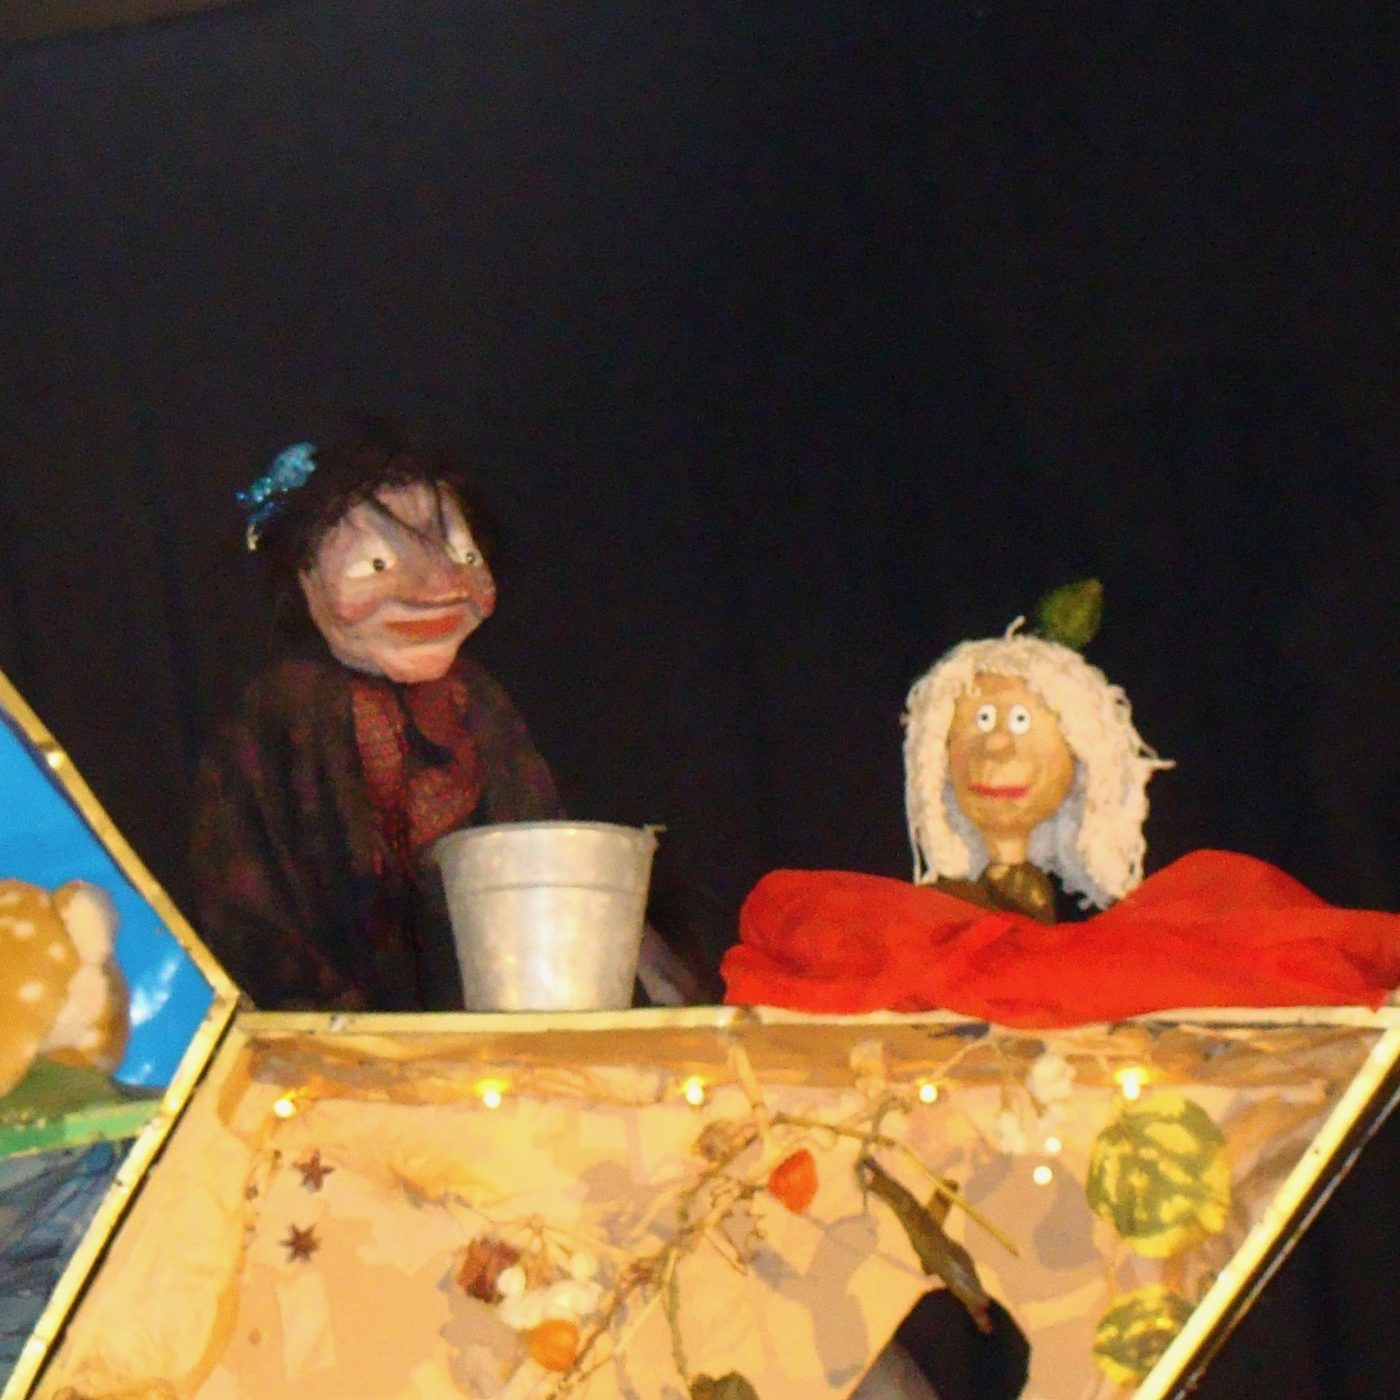
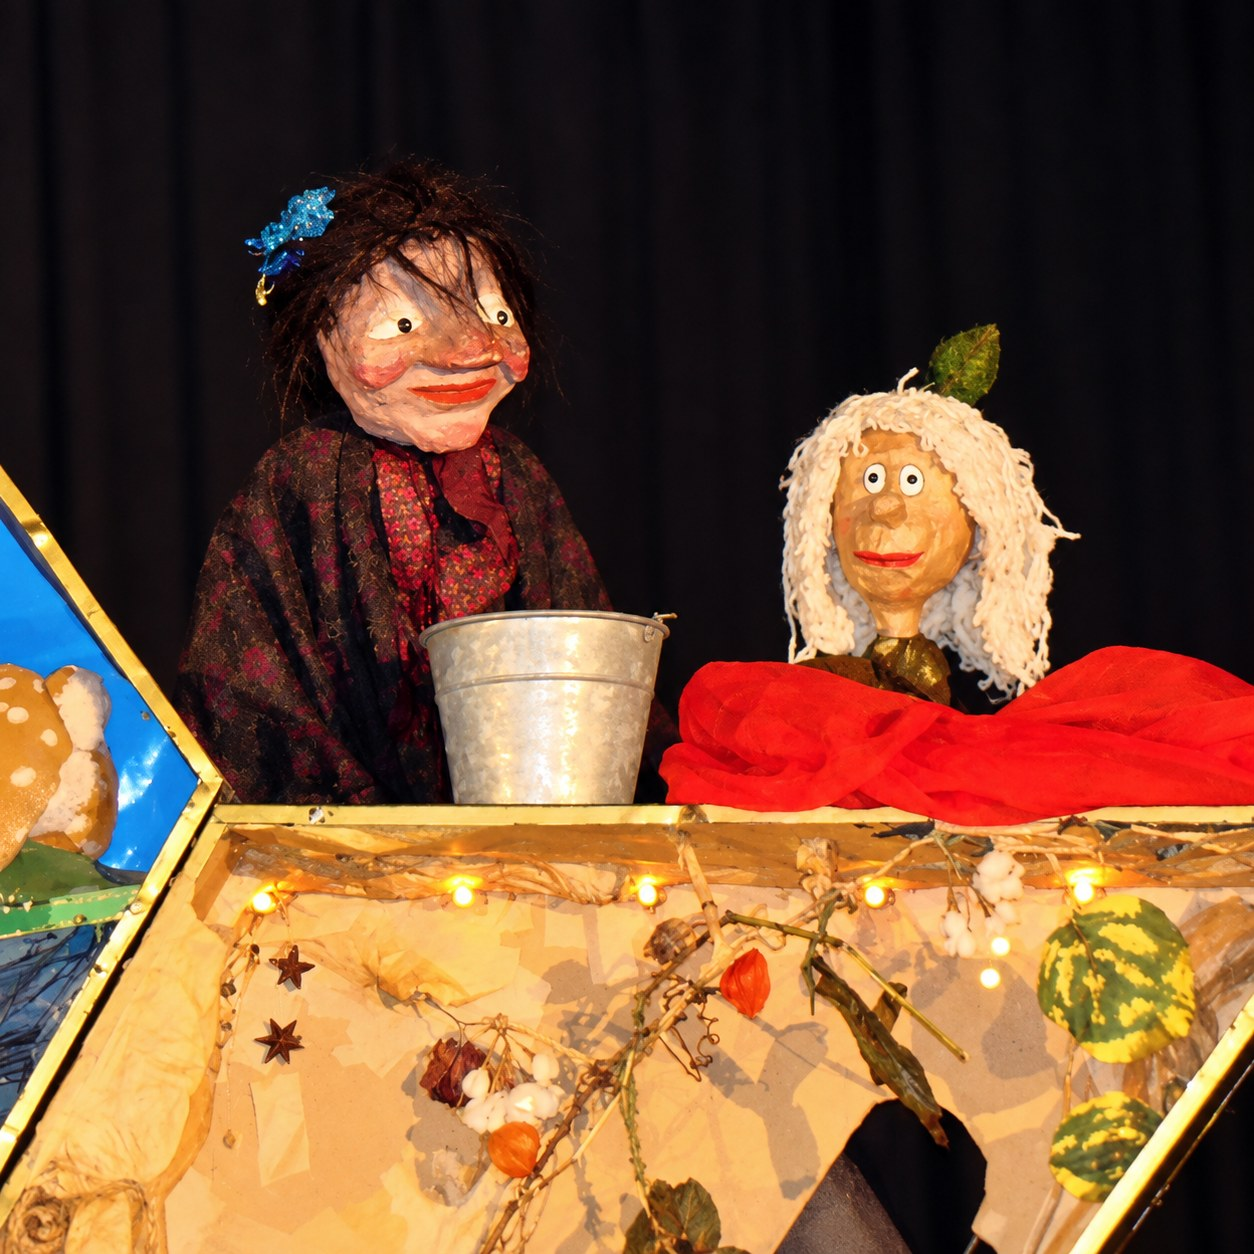
Deploy preview for PR 3 🛫

diff --git a/pr-preview/pr-3/index.html b/pr-preview/pr-3/index.html
@@ -74,7 +74,7 @@
   <div class="plays">
 
     <article class="play" id="prinzessin">
-      <img src="assets/prinzessin-buehne.jpg?v=20260915b" width="1400" height="933" loading="lazy" alt="Der Clown mit der Prinzessinnen-Puppe vor der Schlosskulisse, davor die Kinder">
+      <img src="assets/prinzessin-buehne.jpg?v=20260915d" width="1536" height="1024" loading="lazy" alt="Die Spielerin mit den beiden Prinzessinnen-Puppen am weißen Bett, davor die Kinder">
       <div class="play-body">
         <div class="meta"><span>Ein Märchen zum Mitmachen</span><span>Ab 3 Jahren</span></div>
         <h3>Das Märchen von der Prinzessin in der Suppe</h3>
@@ -90,7 +90,7 @@
     </article>
 
     <article class="play" id="gluecklich-im-park">
-      <img src="assets/gluecklich-im-park.jpg?v=20260915b" width="1200" height="1301" loading="lazy" alt="Lilly tanzt auf der Bühne vor der Wolke">
+      <img class="focus-top" src="assets/gluecklich-im-park.jpg?v=20260915d" width="1205" height="1306" loading="lazy" alt="Lilly tanzt mit erhobenem Bein vor der Wolke">
       <div class="play-body">
         <div class="meta"><span>Für Kinder von 1,5 bis 6 Jahren</span></div>
         <h3 class="lettering"><img src="assets/gluecklich-im-park-schriftzug.png" alt="Glücklich im Park" width="694" height="361"></h3>
@@ -107,7 +107,7 @@
     </article>
 
     <article class="play" id="der-stern">
-      <img src="assets/irma-und-fee.jpg?v=20260915b" width="1400" height="1400" loading="lazy" alt="Hexe Irma und die Putzfee vor dem großen Stern">
+      <img src="assets/irma-und-fee.jpg?v=20260915d" width="1254" height="1254" loading="lazy" alt="Hexe Irma und die Putzfee vor dem großen Stern">
       <div class="play-body">
         <div class="meta"><span>Auch als Kita-Version</span></div>
         <h3>Der Stern</h3>
@@ -139,7 +139,7 @@
     </article>
 
     <article class="play" id="schnecke">
-      <img src="assets/hexe-und-kasperl.jpg?v=20260915b" width="1400" height="1400" loading="lazy" alt="Hexe Irma und Kasperl auf der Bühne mit der großen Schnecke">
+      <img src="assets/hexe-und-kasperl.jpg?v=20260915d" width="1400" height="1400" loading="lazy" alt="Hexe Irma und Kasperl auf der Bühne mit der großen Schnecke">
       <div class="play-body">
         <div class="meta"><span>Traditionelles Kasperltheater ab 3 Jahren</span></div>
         <h3>… und die Schnecke steht Schmiere!</h3>
@@ -335,7 +335,7 @@
     <p>Figuren, Bühnenbilder und Momente aus unseren Stücken.</p>
   </div>
   <div class="gallery">
-    <figure><img src="assets/hexe-und-kasperl.jpg?v=20260915b" width="1400" height="1400" loading="lazy" alt="Hexe Irma und Kasperl in der Guckkastenbühne"><figcaption>Kasperl &amp; Hexe Irma</figcaption></figure>
+    <figure><img src="assets/hexe-und-kasperl.jpg?v=20260915d" width="1400" height="1400" loading="lazy" alt="Hexe Irma und Kasperl in der Guckkastenbühne"><figcaption>Kasperl &amp; Hexe Irma</figcaption></figure>
     <figure><img src="assets/der-stern.jpg" width="853" height="853" loading="lazy" alt="Der große gelbe Stern"><figcaption>Der Stern</figcaption></figure>
     <figure><img src="assets/der-alte.jpg?v=20260915c" width="1254" height="1254" loading="lazy" alt="Die Puppe des Alten in einem hellen Gewand"><figcaption>Der Alte</figcaption></figure>
     <figure><img src="assets/schloss.jpg?v=20260915b" width="1200" height="1336" loading="lazy" alt="Gemaltes Schloss als Kulisse"><figcaption>Kulisse</figcaption></figure>

diff --git a/pr-preview/pr-3/style.css b/pr-preview/pr-3/style.css
@@ -258,6 +258,8 @@ header .button:hover { background: #ffe7a6; }
   background: var(--paper-2);
 }
 .play > img.contain { object-fit: contain; background: #f3efe6; padding: 10px; }
+/* Hochformat mit Kopf oben: Ausschnitt weiter oben ansetzen */
+.play > img.focus-top { object-position: center 18%; }
 .play-body { padding: 22px 24px 20px; display: flex; flex-direction: column; flex: 1; }
 .play .meta {
   display: flex;
